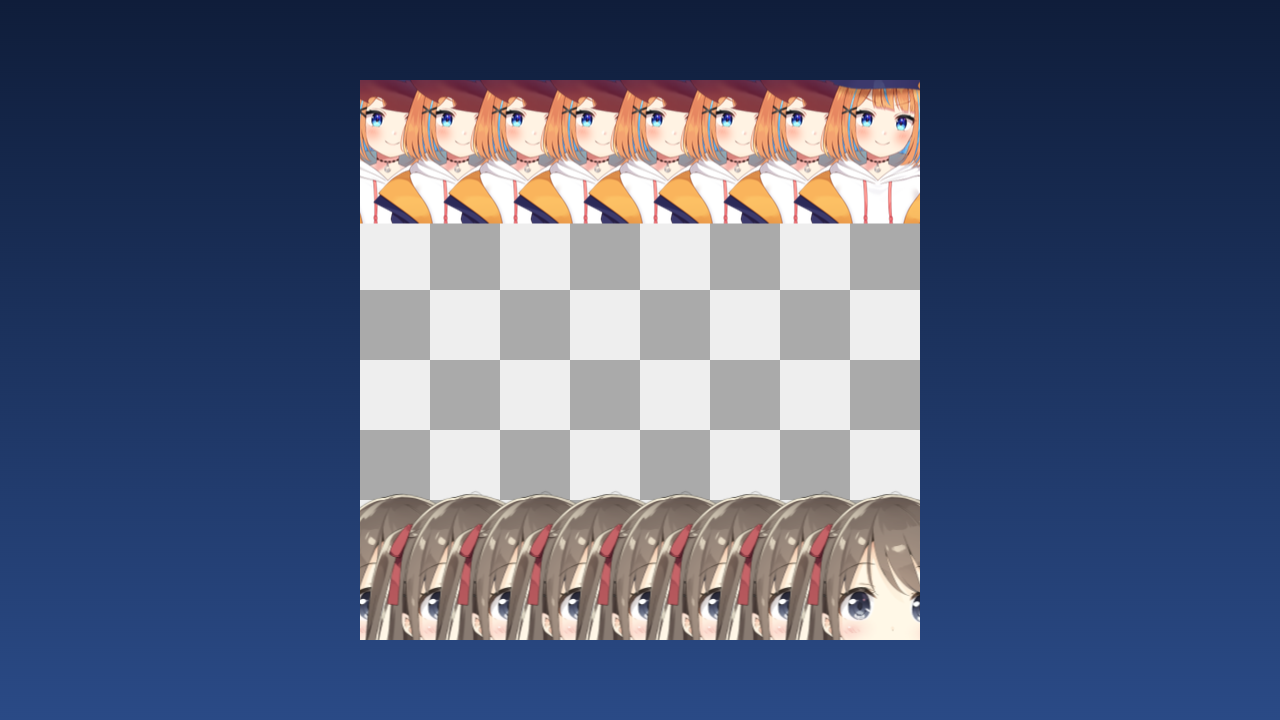
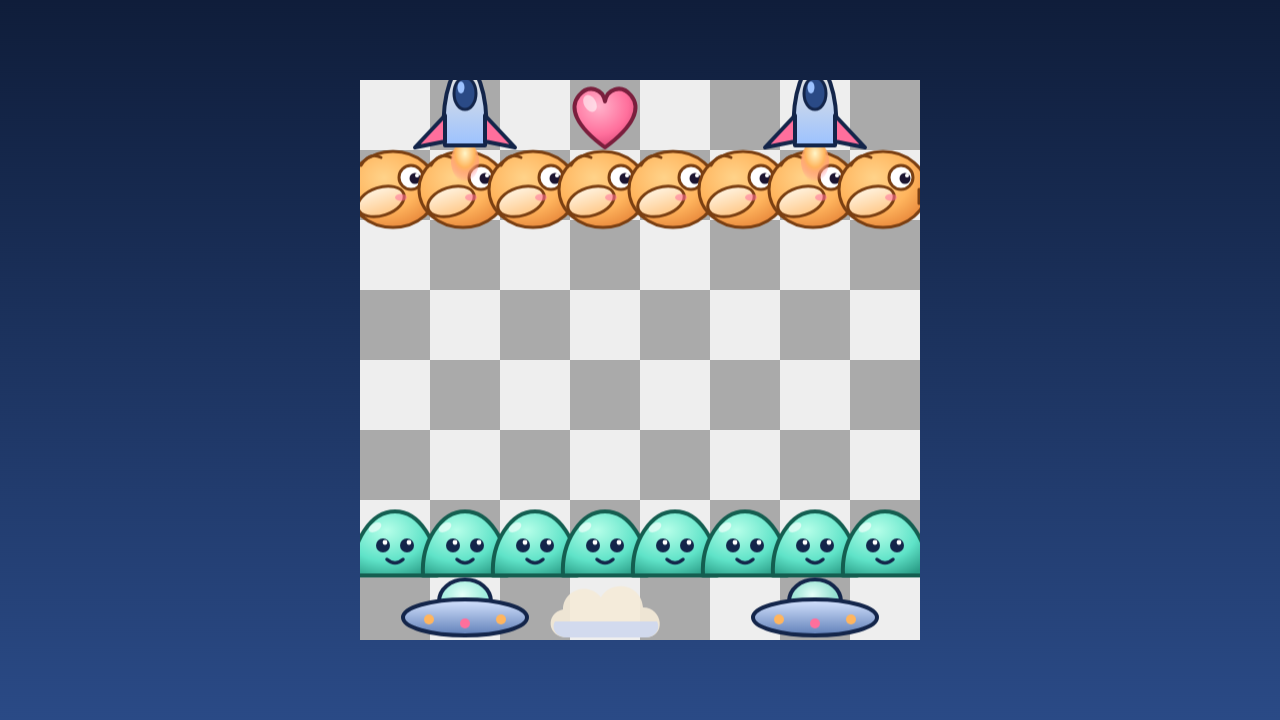
Publish chess-game-fb05 (requested by @FRCFinance)

Changed region(s): [[0.2812, 0.0917, 0.7188, 0.3361], [0.2812, 0.6722, 0.7188, 0.8861]]

diff --git a/games/chess-game-fb05/index.html b/games/chess-game-fb05/index.html
@@ -49,8 +49,13 @@ class Play extends Phaser.Scene {
   constructor() { super("play"); }
 
   preload() {
-    this.load.image("whitePiece", "../../assets/characters/mika-head.png");
-    this.load.image("blackPiece", "../../assets/characters/luna-head.png");
+    // Load real chess piece images
+    this.load.image("whitePawn", "../../assets/sprites/bird.svg"); // Placeholder for white pawn
+    this.load.image("blackPawn", "../../assets/sprites/slime.svg"); // Placeholder for black pawn
+    this.load.image("whiteKnight", "../../assets/sprites/ship.svg"); // Placeholder for white knight
+    this.load.image("blackKnight", "../../assets/sprites/ufo.svg"); // Placeholder for black knight
+    this.load.image("whiteQueen", "../../assets/sprites/heart.svg"); // Placeholder for white queen
+    this.load.image("blackQueen", "../../assets/sprites/cloud.svg"); // Placeholder for black queen
   }
 
   create() {
@@ -86,9 +91,15 @@ class Play extends Phaser.Scene {
   createPieces() {
     this.pieces = [];
     for (let i = 0; i < SETTINGS.boardSize; i++) {
-      this.addPiece(i, 0, "whitePiece");
-      this.addPiece(i, 7, "blackPiece");
+      this.addPiece(i, 1, "whitePawn");
+      this.addPiece(i, 6, "blackPawn");
     }
+    this.addPiece(1, 0, "whiteKnight");
+    this.addPiece(6, 0, "whiteKnight");
+    this.addPiece(1, 7, "blackKnight");
+    this.addPiece(6, 7, "blackKnight");
+    this.addPiece(3, 0, "whiteQueen");
+    this.addPiece(3, 7, "blackQueen");
   }
 
   addPiece(x, y, key) {
